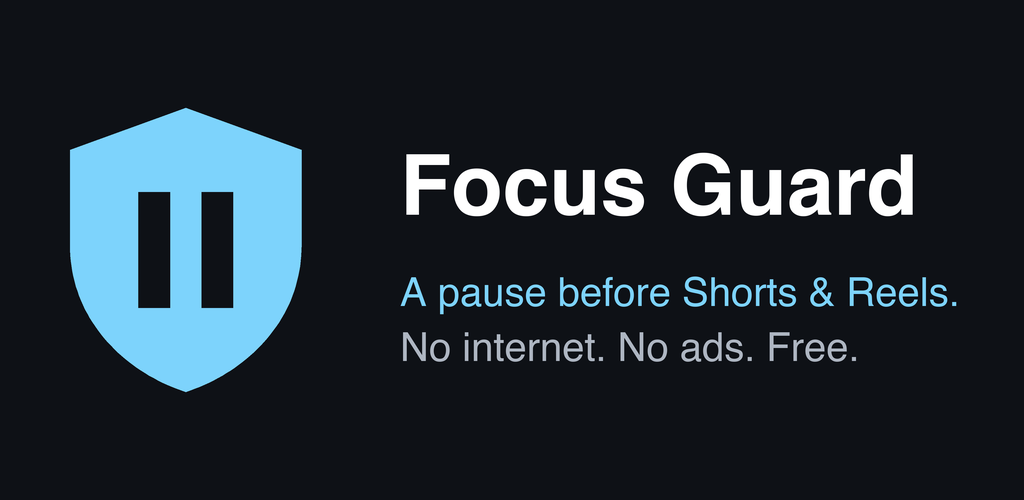
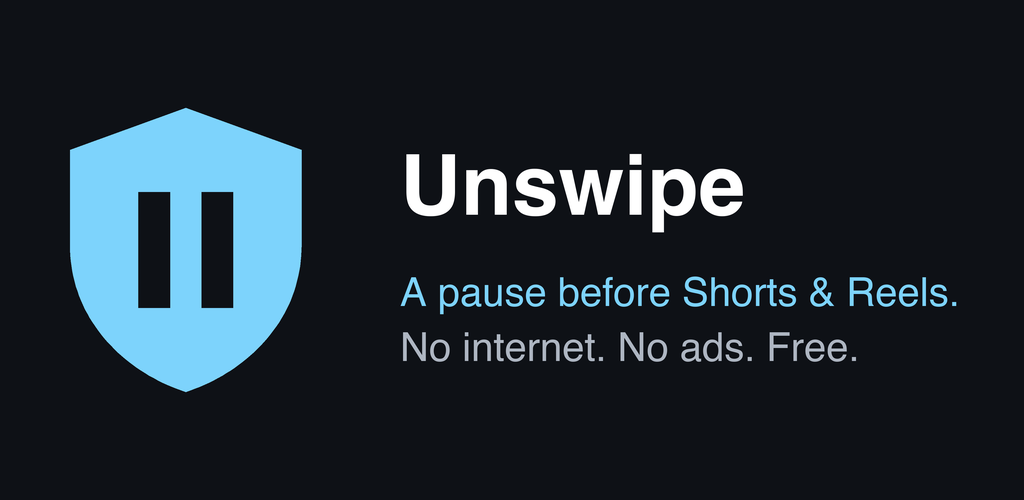
Play name Unswipe: package com.alrasin.unswipe, ASO listing, feature graphic
Play build renames shown name and package in a copy of src/res; the root
build keeps Focus Guard (watchdog greps its label).

Changed region(s): [[0.4062, 0.3, 0.9062, 0.48]]

diff --git a/android/app/src/com/alrasin/focusguard/Setup.java b/android/app/src/com/alrasin/focusguard/Setup.java
@@ -25,7 +25,6 @@ import java.util.Locale;
  * watchdog keeps the service on, so only the disclosure and notifications are asked for.
  */
 final class Setup {
-    static final String SERVICE = "com.alrasin.focusguard/com.alrasin.focusguard.GuardService";
 
     private Setup() {
     }

diff --git a/docs/play-store.md b/docs/play-store.md
@@ -31,37 +31,70 @@ Play build differences (`FG_PLAY=1` → `Flavor.PLAY`):
 | `REQUEST_IGNORE_BATTERY_OPTIMIZATIONS` | yes (direct dialog) | removed; setup opens the battery settings list instead |
 | Consent text | mentions the settings guard | without it |
 | `keywords.local.json` | included if present | always left out |
+| Name / package | Focus Guard, `com.alrasin.focusguard` | Unswipe, `com.alrasin.unswipe` (build.sh renames the copy; Java classes stay in `com.alrasin.focusguard`) |
 
 Use **Play App Signing**; we only hold the upload key.
 
-## Store listing (draft)
+## Store listing (ASO draft)
 
-**Name**: Focus Guard: Shorts & Reels Limit
+Name chosen 2026-11-13 after a name check: **Unswipe** (package `com.alrasin.unswipe`). Taken or
+crowded: FocusGuard, Focus Shield, ScrollPause, Pausely, BreathGate, Scroll Brake, NoScroll,
+StopScroll, Unreel, ShortStop, Focsy. "Unswipe" = the habit it breaks, short, easy to spell,
+no rival app found with it. Check Play search once more right before creating the app.
 
-**Short description (80)**: Pause before Shorts & Reels. Daily limits. Blocks adult sites. No internet.
+ASO rules used: main keywords in the title (strongest signal), the rest in the short description
+and the first lines of the full description; natural sentences, no keyword lists, no rival brand
+names (Play policy), no "#1"/"best".
+
+**Title (30)**: `Unswipe: Block Shorts & Reels` (29 chars)
+
+**Short description (80)**: `Pause before YouTube Shorts & Reels. Daily limits, porn blocker. No internet.` (77 chars)
 
 **Full description**:
 
-> Focus Guard puts a short pause between you and endless videos.
+> Stop doomscrolling without deleting your apps. Unswipe adds a short breathing pause before
+> YouTube Shorts, Instagram Reels, Facebook Reels and TikTok, so you choose instead of swiping
+> on autopilot. The rest of YouTube, Instagram and Facebook keeps working.
 >
-> • A breathing pause before YouTube Shorts, Facebook Reels, Instagram Reels, TikTok or any app you pick
-> • Choose how long to open: 1, 5, 10 or 15 minutes, with a timer on screen
-> • Opens per day, daily time cap, cooldown, block hours — per app
-> • Works in browsers too (Chrome, Brave, Firefox, Edge, Samsung Internet…)
-> • Adult websites blocked, always
-> • Strict mode: loosening a setting waits up to 72 h; optional partner PIN
-> • Focus now: close everything for 30 min, 1 or 2 hours — no way out early
-> • Stats, streaks, weekly report, home-screen widget and Quick Settings tile
+> HOW IT WORKS
+> • A breathing pause and a question before short videos open
+> • Choose how long to watch: 1, 5, 10 or 15 minutes, with a timer on screen
+> • Daily limits per app: opens per day, time cap, cooldown, block hours
+> • Works in browsers too (Chrome, Brave, Firefox, Edge, Samsung Internet)
+> • Add any app you want to limit, not only short video
+>
+> STAY ON TRACK
+> • Focus now: block every distraction for 30 min, 1 or 2 hours
+> • Strict mode: loosening a limit waits up to 72 h; optional partner PIN
+> • Screen time stats, streaks and a weekly report
+> • Home-screen widget and Quick Settings tile
+>
+> ADULT CONTENT BLOCKER
+> • Porn and adult websites are blocked in browsers, always on
+>
+> PRIVATE BY DESIGN
+> • No internet permission: nothing is collected, nothing is sent
+> • No ads, no account, no subscription — every feature is free
 > • English and বাংলা
 >
-> Privacy first: the app has **no internet permission**. Nothing is collected, nothing is sent.
-> No ads, no account, no subscription.
+> Unswipe uses Android's Accessibility service only to see when Shorts, Reels or a limited app
+> is on screen and to leave it. Nothing is stored or shared.
 
-**Category**: Productivity. **Contains ads**: No. **In-app purchases**: No.
+**Category**: Productivity. **Tags** (Console, pick up to 5): Digital wellbeing, Productivity,
+Focus, Habit tracker, Self-improvement — use what the Console offers. **Contains ads**: No.
+**In-app purchases**: No.
+
+**Screenshot captions** (big text on top of each screenshot, keywords again):
+1. Pause before Shorts & Reels
+2. Choose how long you watch
+3. Daily limits per app
+4. Block porn sites, always
+5. Focus now: no distractions
+6. No internet. No ads. Free.
 
 ## Edge over competitors
 
-| | Focus Guard | Typical rivals (ScreenZen, one sec, Opal, BlockerX, Digital Wellbeing) |
+| | Unswipe | Typical rivals (ScreenZen, one sec, Opal, BlockerX, Digital Wellbeing) |
 |---|---|---|
 | Internet permission | None — provably offline | Most need it (accounts, sync, analytics) |
 | Price | Free, everything | Many lock limits/strict mode behind a subscription |
@@ -108,7 +141,7 @@ Closed test with **at least 12 testers for 14 days in a row** before production 
 
 ## Owner decisions
 
-1. Final app name and package (now `com.alrasin.focusguard`; can't change after publishing).
+1. ~~App name and package~~ — done: Unswipe, `com.alrasin.unswipe` (can't change after publishing).
 2. LICENSE for the repo.
 3. Play developer account ($25) and 12 testers.
 4. Upload key + Play App Signing.

diff --git a/docs/privacy-policy.md b/docs/privacy-policy.md
@@ -1,8 +1,9 @@
-# Focus Guard – Privacy Policy
+# Unswipe (Focus Guard) – Privacy Policy
 
 Last updated: 2026-11-13
 
-Focus Guard is a self-control app. It adds a pause before short-form video (YouTube Shorts,
+Unswipe is the Google Play name of Focus Guard (package `com.alrasin.unswipe`); this policy
+covers both. It is a self-control app. It adds a pause before short-form video (YouTube Shorts,
 Facebook Reels, Instagram Reels, TikTok and apps you pick) and blocks adult websites.
 
 ## What the app collects
@@ -12,7 +13,7 @@ anywhere. There are no ads, no analytics, no crash reporting and no accounts.
 
 ## Accessibility service
 
-Focus Guard uses Android's Accessibility service, and only after you agree on an in-app
+The app uses Android's Accessibility service, and only after you agree on an in-app
 consent screen. It uses it to:
 
 - see which app and screen is in front, so it can tell when Shorts, Reels or a target app opens;
@@ -35,7 +36,7 @@ This data stays in the app's private storage. Android backup is turned off for t
 | Permission | Why |
 |---|---|
 | Accessibility service | Detect Shorts/Reels/adult pages and leave them (see above) |
-| Notifications | "Opens left", "Focus Guard is off – tap to fix", weekly report |
+| Notifications | "Opens left", "Unswipe/Focus Guard is off – tap to fix", weekly report |
 | Run at startup | Restart the protection after a reboot |
 | Ignore battery optimisation | Keep the service from being killed |
 | Device admin (optional) | Makes uninstalling harder while strict mode is on. No admin policies are used |

diff --git a/README.md b/README.md
@@ -114,7 +114,8 @@ Signing uses a local `focusguard.keystore` that `build.sh` generates on first ru
 For a release key set `FG_KEYSTORE=/path/to.keystore FG_KS_PASS=...` (alias `fg`, or set `FG_KS_ALIAS`). Keep the key:
 Android won't update an app signed with a different one.
 
-`FG_PLAY=1 ./build.sh` makes the Google Play build, `FocusGuard-play.aab` (needs `bundletool`): no settings
+`FG_PLAY=1 ./build.sh` makes the Google Play build, `FocusGuard-play.aab`, named **Unswipe**
+(package `com.alrasin.unswipe`, so it can sit next to the root build) (needs `bundletool`): no settings
 guard, device admin or battery-exemption permission, which Play doesn't allow or questions.
 See `docs/play-store.md` and `docs/privacy-policy.md`.
 
